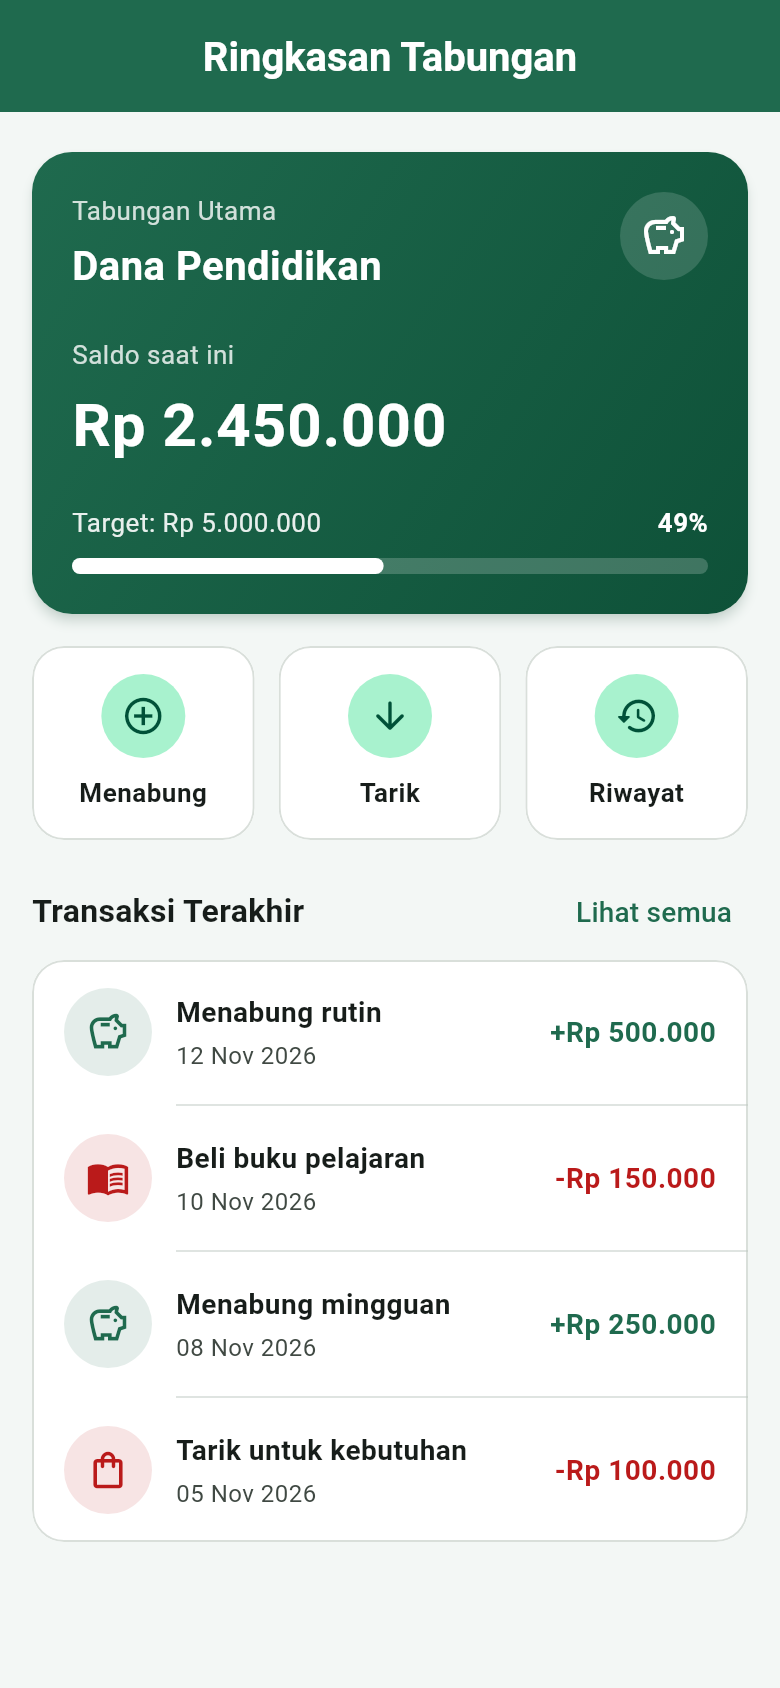
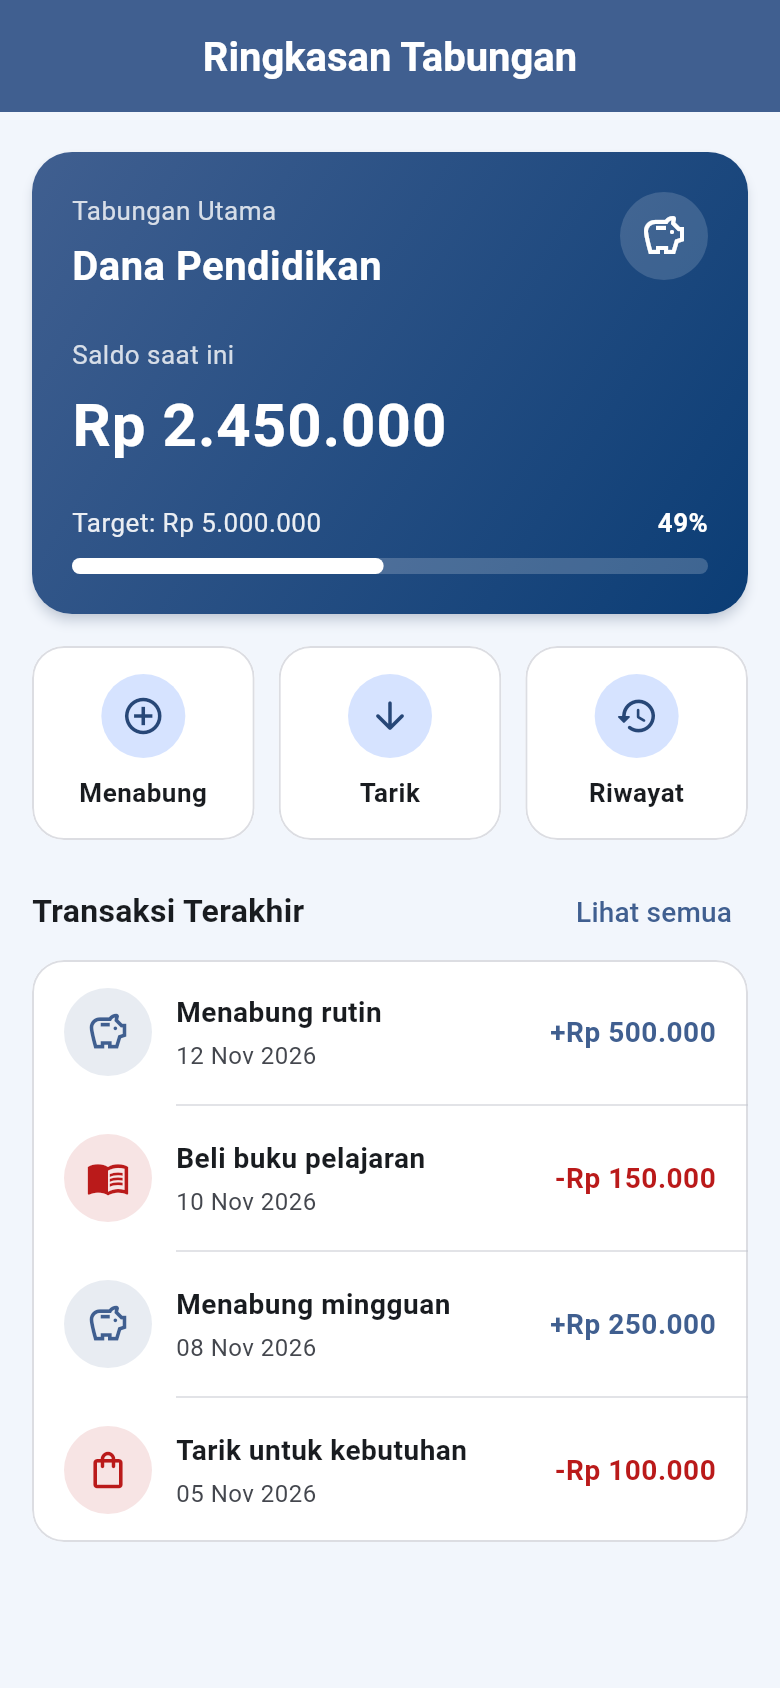
Ganti skema warna aplikasi menjadi biru

diff --git a/lib/main.dart b/lib/main.dart
@@ -13,9 +13,9 @@ class TabungKuApp extends StatelessWidget {
 
   @override
   Widget build(BuildContext context) {
-    // Skema warna hijau dipakai konsisten di seluruh halaman.
+    // Skema warna biru dipakai konsisten di seluruh halaman.
     final ColorScheme warna = ColorScheme.fromSeed(
-      seedColor: const Color(0xFF1B7F5C),
+      seedColor: const Color(0xFF1565C0),
     );
 
     return MaterialApp(
@@ -25,8 +25,8 @@ class TabungKuApp extends StatelessWidget {
         useMaterial3: true,
         colorScheme: warna,
         fontFamily: 'Roboto',
-        scaffoldBackgroundColor: const Color(0xFFF3F7F5),
-        // AppBar hijau dengan judul putih agar kontras dan mudah dibaca.
+        scaffoldBackgroundColor: const Color(0xFFF2F6FC),
+        // AppBar biru dengan judul putih agar kontras dan mudah dibaca.
         appBarTheme: AppBarTheme(
           backgroundColor: warna.primary,
           foregroundColor: warna.onPrimary,
@@ -193,7 +193,7 @@ class _KartuSaldo extends StatelessWidget {
           gradient: LinearGradient(
             begin: Alignment.topLeft,
             end: Alignment.bottomRight,
-            colors: <Color>[warna.primary, const Color(0xFF0E5138)],
+            colors: <Color>[warna.primary, const Color(0xFF0B3D75)],
           ),
         ),
         child: Column(
@@ -499,7 +499,7 @@ class _ItemTransaksi extends StatelessWidget {
   @override
   Widget build(BuildContext context) {
     final ColorScheme warna = Theme.of(context).colorScheme;
-    // Hijau untuk pemasukan, merah untuk pengeluaran.
+    // Biru untuk pemasukan, merah untuk pengeluaran.
     final Color warnaNominal = transaksi.masuk ? warna.primary : warna.error;
 
     return Padding(
